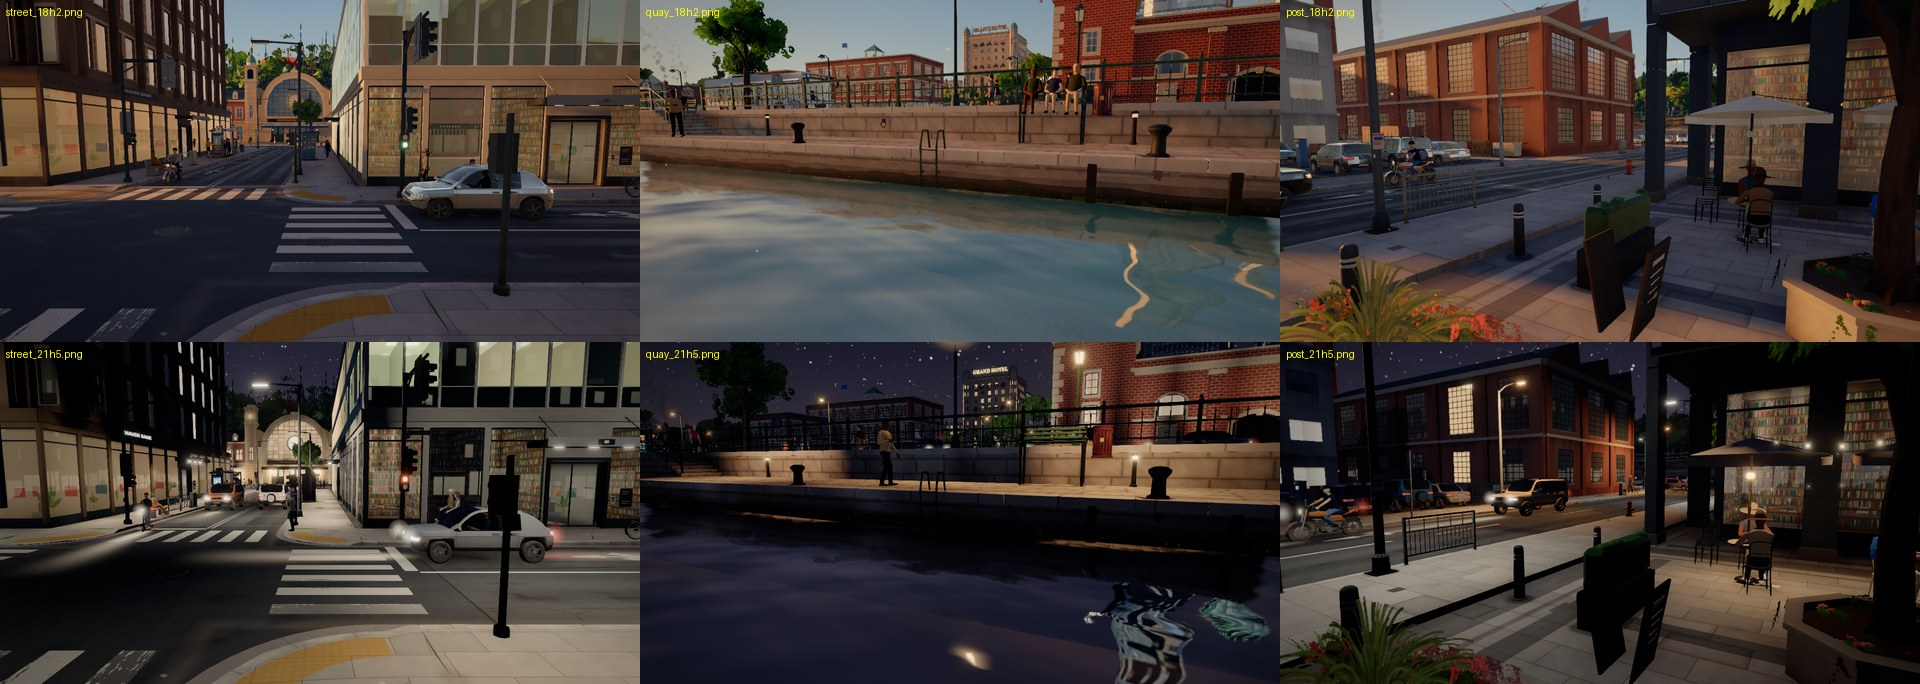
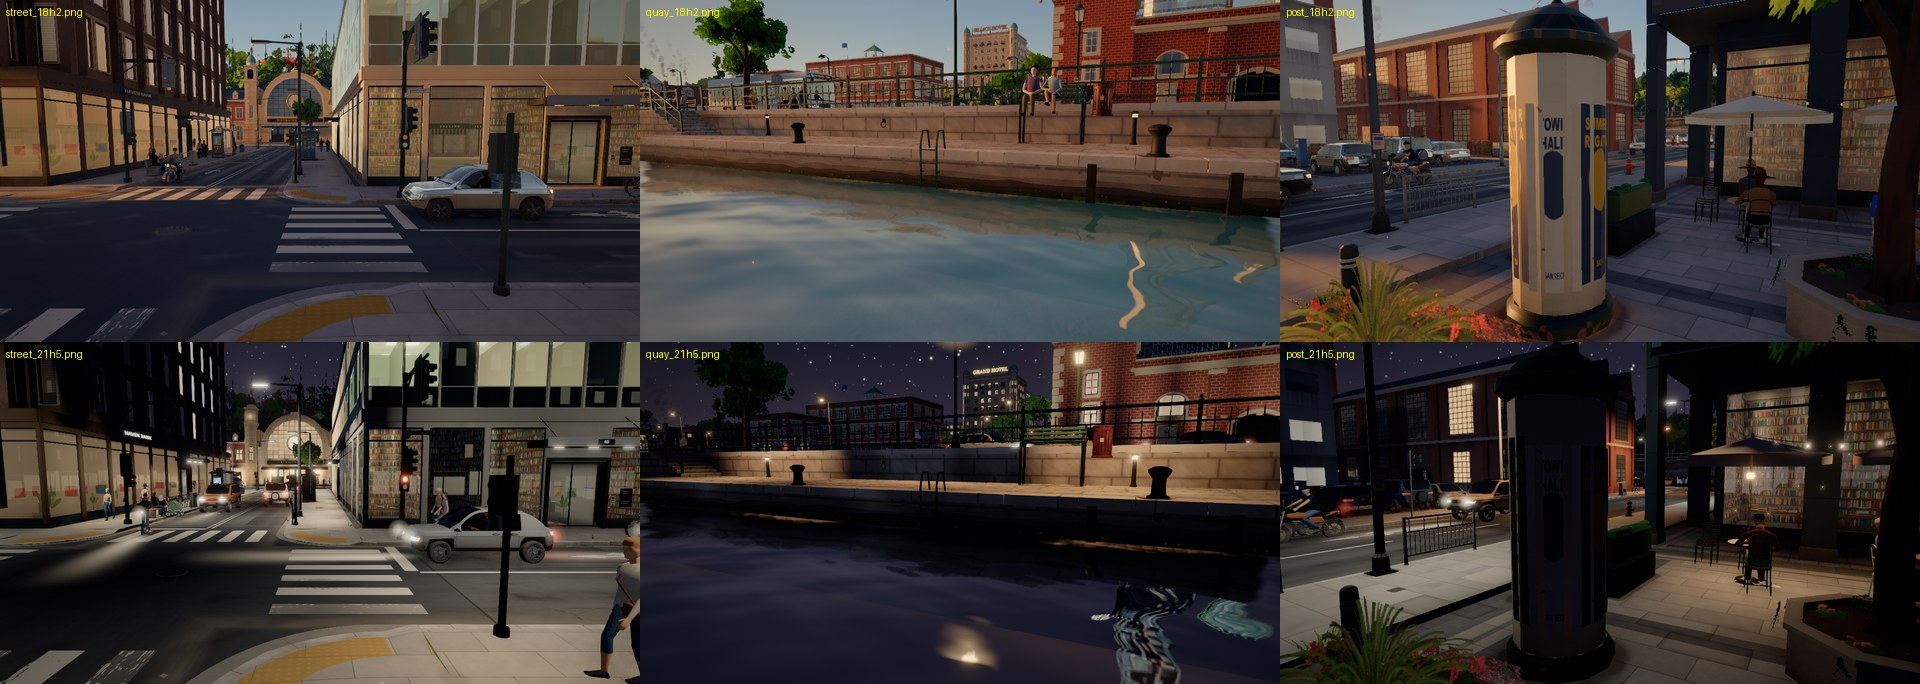
Streets detail: final perf run and checks in the log, refreshed before/after and evening sheets

diff --git a/docs/progress/detail-streets.md b/docs/progress/detail-streets.md
@@ -45,6 +45,14 @@ Within budget: all of the cost is the ground (hardscape vertices with their heav
 free. Whole-city static triangles (`__city.stats()`): roads +64 k (kerb stones 36 k, cover kit 19 k), props +35 k, near cells
 +28 k: about +127 k, half the budget. The triangle counter itself flips by 220 k between runs (shadow fit): never read it from
 one sample.
+Run 4, final, commit 5c81e25, frozen build, AC under power-guard, `hide=traffic,pedestrians`, `;nostreetdetail`, 3 repeats:
+| view | on ms | off ms | delta | triangles on / off, same shadow state |
+|---|---|---|---|---|
+| overview | 34.19, 34.82, 34.49 | 33.60, 34.11, 34.30 | +0.50 | 2.84 / 2.77 M (+77 k) |
+| downtown | 34.61, 34.82, 34.66 | 33.80, 33.99, 33.79 | +0.84 | 3.17 / 3.05 M (+118 k) |
+| street | 31.48, 31.48, 31.44 | 30.77, 30.73, 30.82 | +0.70 | 3.23 / 3.12 M (+103 k) |
+| market | 29.29, 29.24, 29.31 | 28.76, 28.78, 28.79 | +0.50 | 3.01 / 2.91 M (+101 k) |
+Within budget in all four. The on and off rows are paired by draw call count so that both have the same shadow fit.
 **Measuring a static feature: use `hide=traffic,pedestrians`.** Without it the figures near the camera outweigh the feature.
 
 ## Toggles (`src/core/streetdetail.ts`, master `?nostreetdetail`, all off on low unless noted)
@@ -97,3 +105,6 @@ gutter on a dry road, tar overbanding less mirror-like. The print material now a
   a sliver's derivatives faded its long triangles to the pale base and left its short ones dark; hairlines now skip that fade and
   stop at a pixel. Judge 2 (6.5/10, with weeds and facades out of scope): gutters and carriageway too clean: gutter drift, grimier
   band, more trench scars.
+- 2026-10-31 final checks on 5c81e25: typecheck and build clean (4.1 MB single file). Invariants `{}`, validate `[]`, no console
+  errors (7 D3D compile warnings from rail, boats, landscape, buildings and postfx shaders, none from these files). `hitch.mjs`: prog+0 geo+0 tex+0 in every window. `ui-test.mjs --q noidle`: 71 passed, 0 failed. `?diorama`,
+  `?quality=medium`, `?quality=low`: no errors, street view looked at. Opening film looked at (seek sheet; the dark frame at 45 s is the dip between shots). Perf run 4 above.
